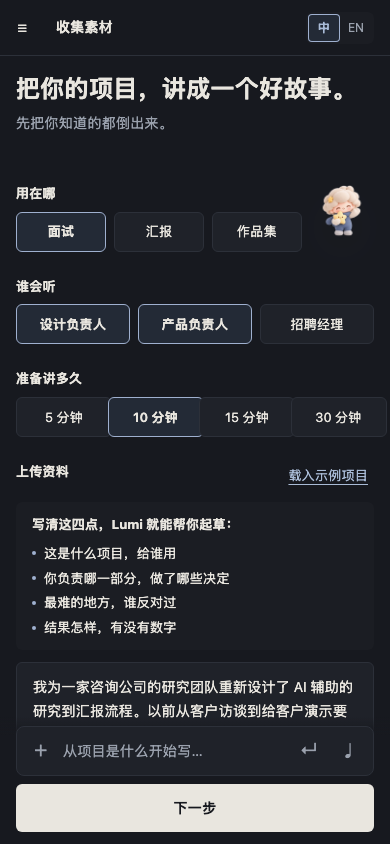
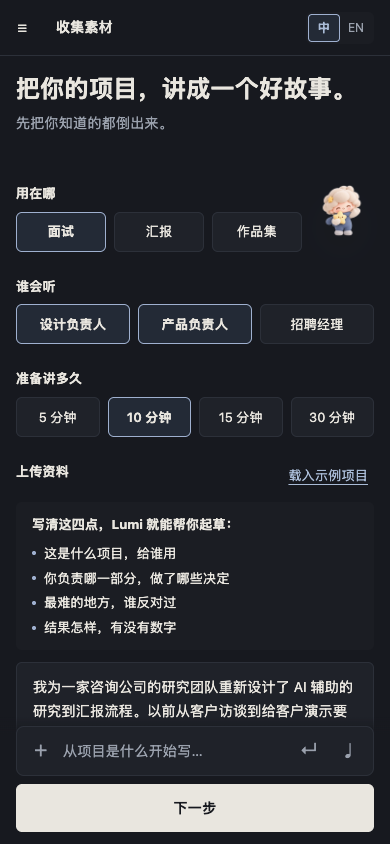
design: fix mobile duration layout

diff --git a/docs/research/step2-lumi-layout/mockup.html b/docs/research/step2-lumi-layout/mockup.html
@@ -225,7 +225,7 @@
     .hero-stage img { width:64px; height:56px; object-fit:contain; transform:translate(-50%,-50%); }
     .hero-stage .motion-tag,.story-stage .motion-tag,.download-stage .motion-tag { display:none; }
     .choice-row { display:grid; grid-template-columns:repeat(3,minmax(0,1fr)); }
-    .choice { min-width:0; padding:0 var(--s-2); }
+    .choice,.choice.compact { min-width:0; padding:0 var(--s-2); }
     .choice-row.length { grid-template-columns:repeat(4,minmax(0,1fr)); }
     .guide-box ul { grid-template-columns:1fr; }
     .materials { margin-top:var(--s-5); }

diff --git a/docs/research/STEP2_FULL_BODY_LUMI_LAYOUT.md b/docs/research/STEP2_FULL_BODY_LUMI_LAYOUT.md
@@ -77,7 +77,7 @@ The wide and standard layouts therefore keep the same right-column x coordinate 
 
 - At 1500px and wider, use `minmax(0, 1fr) 560px` with a 48px gap. Reserve a 520 × 570px stage and render the transparent source at 640px high. The source's alpha bounds produce an approximately 444 × 572px visible character, filling Lu's marked zone without cropping hair, scarf, star, or feet.
 - From 901px through 1499px, use a 380px character column, a 360 × 380px stage, and a 430px-high render. At the 1280px reference this produces an approximately 298 × 384px visible character.
-- From 721px through 900px, reserve a compact 196 × 212px stage at the upper right and render Lumi at 236px high. Keep 220px clear on the right of the title and lead, then let the setup controls use the full content width below that top block. This prevents the copy column from collapsing beside the desktop character column.
+- From 721px through 900px, reserve a compact 200 × 220px stage at the upper right and render Lumi at 250px high. Keep 232px clear on the right of the title and lead, then let the setup controls use the full content width below that top block. This prevents the copy column from collapsing beside the desktop character column.
 - The copy, setup controls, material guide, and Composer keep their existing components. Enlarging Lumi does not reduce a control, font, or hit target.
 
 ### Mobile
@@ -109,7 +109,7 @@ The wide and standard layouts therefore keep the same right-column x coordinate 
 
 - Move the coaching region above the story rows in normal document flow.
 - StoryScore takes the flexible column; Lumi uses a 200 × 220px stage with a 250px-high render.
-- Do not keep a side rail if it would push the story below 640px.
+- Do not keep a side rail if it would push the story below the 592px width accepted by the 1280px reference.
 
 ### Mobile: 390px reference
 
@@ -216,7 +216,7 @@ Use only the approved clay renders in `assets/lumi/source/`. Keep Lumi's face, h
 7. Keep the existing `lumiAnim` state machine. Give busy thinking priority over typing thinking; let jump interrupt idle/thinking once, then return to the current state.
 8. Gate face motion and all media playback with the same reduced-motion preference.
 9. For looping wave and cheer, insert the pause on the neutral start frame, not the last frame.
-10. Give wave, static, thinking, jump and cheer one stage component whose rectangle is fixed per breakpoint. Media uses `width: 100%`, `height: 100%`, `object-fit: contain`; swapping source or animation state must not change x, y, width or height.
+10. Give wave, static, thinking, jump and cheer one stage component whose rectangle is fixed per breakpoint, and size the centred media layer separately from that frame. At 1500px and wider, the shared stage is 520 × 570px; render Step 1 media at 640px high, Step 2 at 650px, and Step 5 at 680px. From 1272px through 1499px, the shared stage is 360 × 380px; render Step 1 and Step 2 media at 430px high and Step 5 at 440px. In compact flow, use a 200 × 220px stage with 250px-high media. At mobile, use a 64 × 56px stage and a 64 × 56px media box with `object-fit: contain`. Apply the same dimensions and centring to static images and video elements; swapping source or animation state must not change the stage or media-layer x, y, width, or height.
 11. Test at 1900, 1500, 1499, 1280, 1272, 1271, 1024, 901, 900, 800, 768, 721, 720, and 390 widths. At 390, cover score closed/open, two incomplete dimensions, `去补`, Composer focus, a contracted viewport, busy state, dark mode, and reduced motion.
 12. Visual QA must compare the implementation with every reference image, then exercise real focus, scroll, offscreen media pause/resume, and software-keyboard behaviour.
 
